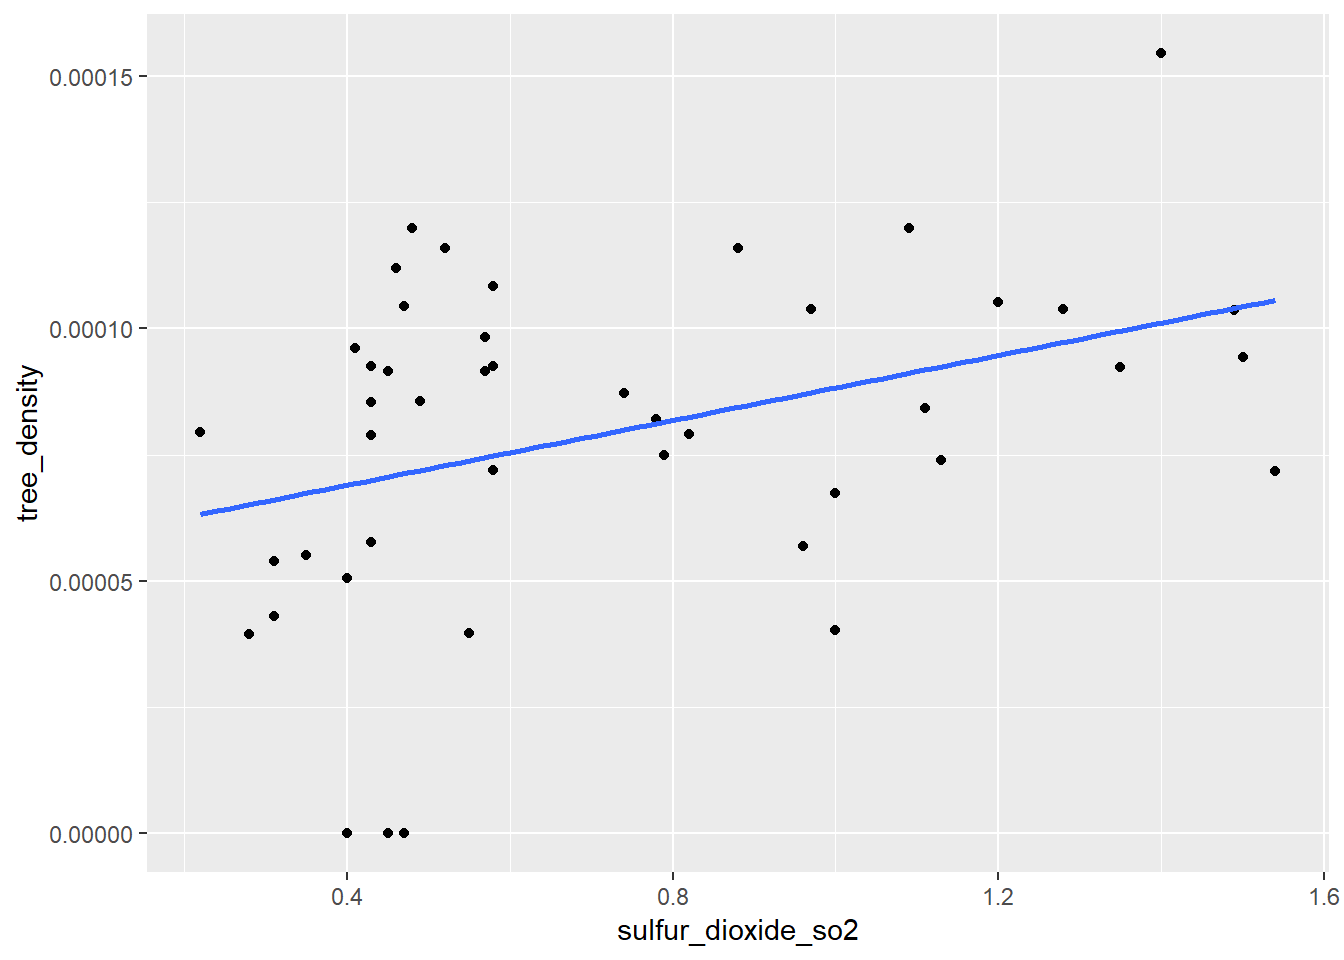
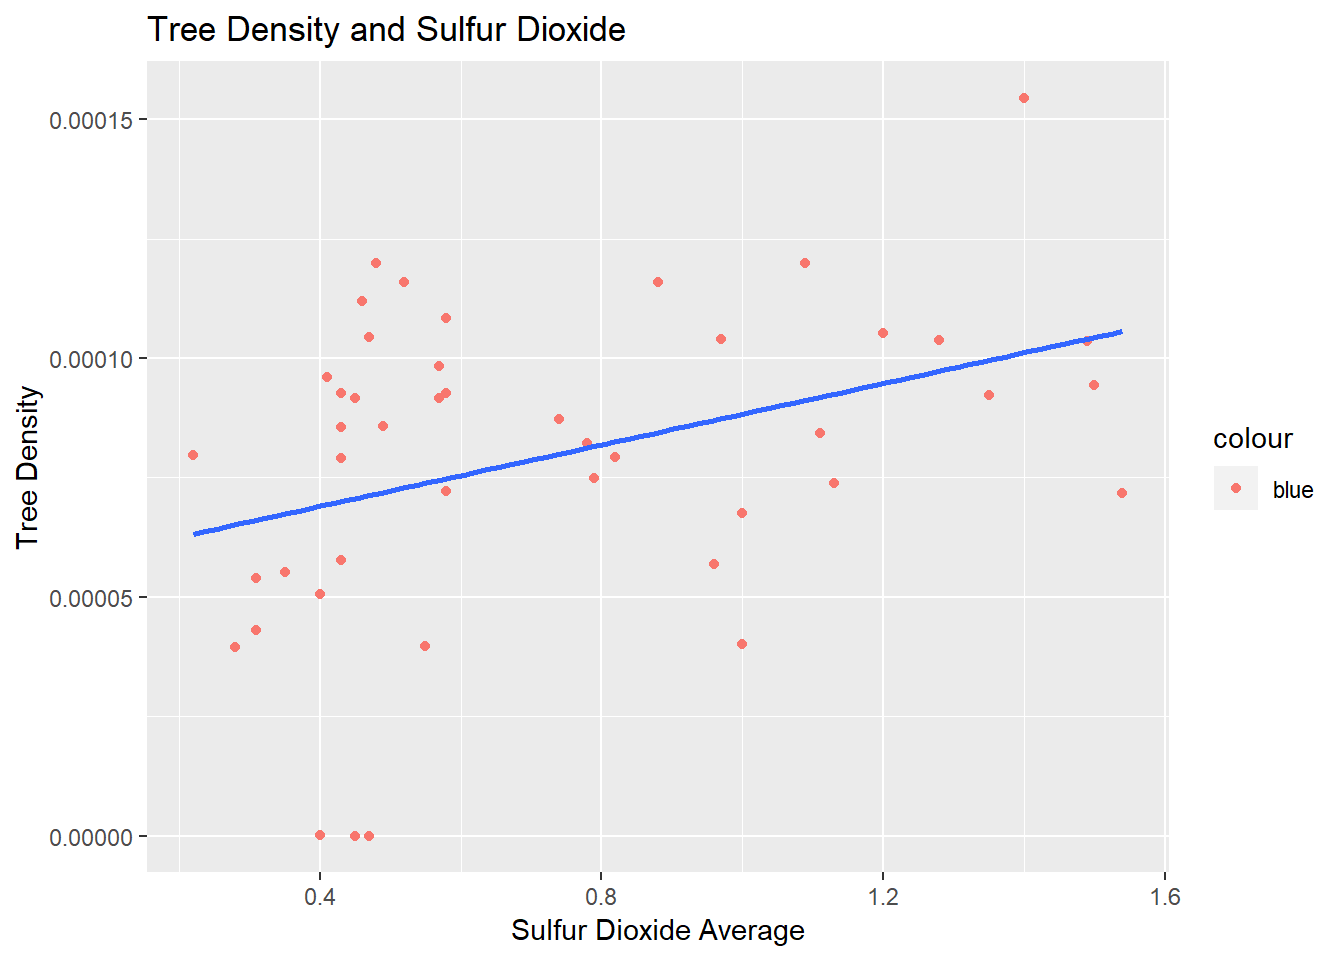
add lables

diff --git a/final.html b/final.html
@@ -268,22 +268,6 @@ mydat = rgdal::readOGR(&quot;./UHF42/UHF_42_DOHMH.shp&quot;)</code></pre>
   filter(is.na(uhf42_code) == FALSE)
 
 tree_df = left_join(tree_df, area, by = &quot;uhf42_code&quot;)</code></pre>
-<pre class="r"><code>#among 652,173 trees, only 361 trees have diameter larger than 70, so we make plots without them.
-
-#density plot of tree_dbh
-ggplot(tree_df) +
-  geom_density(aes(x = tree_dbh, fill = boroname, alpha = 0.5))+ 
-  scale_x_continuous(limits = c(0, 50)) +
-  theme(legend.position = &quot;bottom&quot;)</code></pre>
-<pre><code>## Warning: Removed 361 rows containing non-finite values (stat_density).</code></pre>
-<p><img src="final_files/figure-html/unnamed-chunk-3-1.png" width="672" /></p>
-<pre class="r"><code>#violin plot of tree_dbh
-ggplot(tree_df) +
-  geom_violin(aes(x = boroname, y = tree_dbh, fill = boroname))+ 
-  scale_y_continuous(limits = c(0, 50)) +
-  theme(legend.position = &quot;bottom&quot;)</code></pre>
-<pre><code>## Warning: Removed 361 rows containing non-finite values (stat_ydensity).</code></pre>
-<p><img src="final_files/figure-html/unnamed-chunk-3-2.png" width="672" /></p>
 <pre class="r"><code>#tree density
 tree_density = tree_df %&gt;%
   group_by(boroname, uhf42_name, uhf42_code, area) %&gt;%
@@ -496,49 +480,84 @@ ggplot(final_asthma_df) +
    geom_smooth(aes(x = sulfur_dioxide_so2, y = rate, color = asthma_age), method = &quot;lm&quot;, se = F) +
    labs(
     title = &quot;Asthma and Sulfur Dioxide&quot;,
-    x = &quot;Sulfur Dioxide Annual Average&quot;,
+    x = &quot;Sulfur Dioxide Average&quot;,
     y = &quot;Asthma Rate&quot;
   ) +
-   theme(legend.position = &quot;bottom&quot;) </code></pre>
-<p><img src="final_files/figure-html/unnamed-chunk-8-1.png" width="672" /></p>
+   theme(legend.position = &quot;bottom&quot;) +
+   guides(color = guide_legend(nrow = 2)) +
+   scale_color_hue(name = &quot;Age&quot;)</code></pre>
+<p><img src="final_files/figure-html/unnamed-chunk-7-1.png" width="672" /></p>
 <pre class="r"><code>#asthma and pm2.5
 ggplot(final_asthma_df) +
    geom_point(aes(x = fine_particulate_matter_pm2_5, y = rate, color = asthma_age))+
    geom_smooth(aes(x = fine_particulate_matter_pm2_5, y = rate, color = asthma_age), method = &quot;lm&quot;, se = F) +
-  theme(legend.position = &quot;bottom&quot;)</code></pre>
-<p><img src="final_files/figure-html/unnamed-chunk-8-2.png" width="672" /></p>
+   labs(
+    title = &quot;Asthma and PM2.5&quot;,
+    x = &quot;PM2.5 Average&quot;,
+    y = &quot;Asthma Rate&quot;
+  ) +
+   theme(legend.position = &quot;bottom&quot;) +
+   guides(color = guide_legend(nrow = 2)) +
+   scale_color_hue(name = &quot;Age&quot;)</code></pre>
+<p><img src="final_files/figure-html/unnamed-chunk-7-2.png" width="672" /></p>
 <pre class="r"><code>#asthma and poverty
 ggplot(final_asthma_df) +
    geom_point(aes(x = poverty, y = rate, color = asthma_age))+
    geom_smooth(aes(x = poverty, y = rate, color = asthma_age), method = &quot;lm&quot;, se = F) +
-  theme(legend.position = &quot;bottom&quot;)</code></pre>
-<p><img src="final_files/figure-html/unnamed-chunk-8-3.png" width="672" /></p>
+   labs(
+    title = &quot;Asthma and Poverty&quot;,
+    x = &quot;Poverty Percent&quot;,
+    y = &quot;Asthma Rate&quot;
+  ) +
+   theme(legend.position = &quot;bottom&quot;) +
+   guides(color = guide_legend(nrow = 2)) +
+   scale_color_hue(name = &quot;Age&quot;)</code></pre>
+<p><img src="final_files/figure-html/unnamed-chunk-7-3.png" width="672" /></p>
 <pre class="r"><code>#asthma and tree
 ggplot(final_asthma_df) +
   geom_point(aes(x = tree_density, y = rate, color = asthma_age)) +
    geom_smooth(aes(x = tree_density, y = rate, color = asthma_age), method = &quot;lm&quot;,se = F) +
-  theme(legend.position = &quot;bottom&quot;)</code></pre>
-<p><img src="final_files/figure-html/unnamed-chunk-8-4.png" width="672" /></p>
+   labs(
+    title = &quot;Asthma and Tree Density&quot;,
+    x = &quot;Tree Density&quot;,
+    y = &quot;Asthma Rate&quot;
+  ) +
+   theme(legend.position = &quot;bottom&quot;) +
+   guides(color = guide_legend(nrow = 2)) +
+   scale_color_hue(name = &quot;Age&quot;)</code></pre>
+<p><img src="final_files/figure-html/unnamed-chunk-7-4.png" width="672" /></p>
 <pre class="r"><code>#asthma 0-4 and asthma 5-14 in each UHF42
 ggplot(final_asthma_df) +
-  geom_bar(aes(x = geo_entity_name, y = rate, fill = asthma_age), stat = &quot;identity&quot;, position = &quot;dodge&quot;)</code></pre>
-<p><img src="final_files/figure-html/unnamed-chunk-8-5.png" width="672" /></p>
-<pre class="r"><code>  theme(legend.position = &quot;bottom&quot;)</code></pre>
-<pre><code>## List of 1
-##  $ legend.position: chr &quot;bottom&quot;
-##  - attr(*, &quot;class&quot;)= chr [1:2] &quot;theme&quot; &quot;gg&quot;
-##  - attr(*, &quot;complete&quot;)= logi FALSE
-##  - attr(*, &quot;validate&quot;)= logi TRUE</code></pre>
+  geom_bar(aes(x = geo_entity_name, y = rate, fill = asthma_age), stat = &quot;identity&quot;, position = &quot;dodge&quot;) +
+   labs(
+    title = &quot;Asthma Rate In Each Entity&quot;,
+    x = &quot;Entity Name&quot;,
+    y = &quot;Asthma Rate&quot;
+  ) +
+   theme(legend.position = &quot;bottom&quot;, axis.text.x = element_text(angle = 75, hjust = 1)) +
+   guides(fill = guide_legend(nrow = 2)) +
+   scale_fill_hue(name = &quot;Age&quot;) </code></pre>
+<p><img src="final_files/figure-html/unnamed-chunk-7-5.png" width="672" /></p>
 <pre class="r"><code>#tree and SO2
 ggplot(final_asthma_df) +
   geom_point(aes(x = sulfur_dioxide_so2, y = tree_density)) +
-  geom_smooth(aes(x = sulfur_dioxide_so2, y = tree_density), method = &quot;lm&quot;, se = F)</code></pre>
-<p><img src="final_files/figure-html/unnamed-chunk-8-6.png" width="672" /></p>
+  geom_smooth(aes(x = sulfur_dioxide_so2, y = tree_density), method = &quot;lm&quot;, se = F) +
+   labs(
+    title = &quot;Tree Density and Sulfur Dioxide&quot;,
+    x = &quot;Sulfur Dioxide Average&quot;,
+    y = &quot;Tree Density&quot;
+  ) </code></pre>
+<p><img src="final_files/figure-html/unnamed-chunk-7-6.png" width="672" /></p>
 <pre class="r"><code>#tree and pm2.5
 ggplot(final_asthma_df) +
   geom_point(aes(x = fine_particulate_matter_pm2_5, y = tree_density)) +
-  geom_smooth(aes(x = fine_particulate_matter_pm2_5, y = tree_density), method = &quot;lm&quot;, se = F) </code></pre>
-<p><img src="final_files/figure-html/unnamed-chunk-8-7.png" width="672" /></p>
+  geom_smooth(aes(x = fine_particulate_matter_pm2_5, y = tree_density), method = &quot;lm&quot;, se = F) +
+   labs(
+    title = &quot;Tree Density and PM2.5&quot;,
+    x = &quot;PM2.5 Average&quot;,
+    y = &quot;Tree Density&quot;
+  ) </code></pre>
+<p><img src="final_files/figure-html/unnamed-chunk-7-7.png" width="672" /></p>
 
 
 
